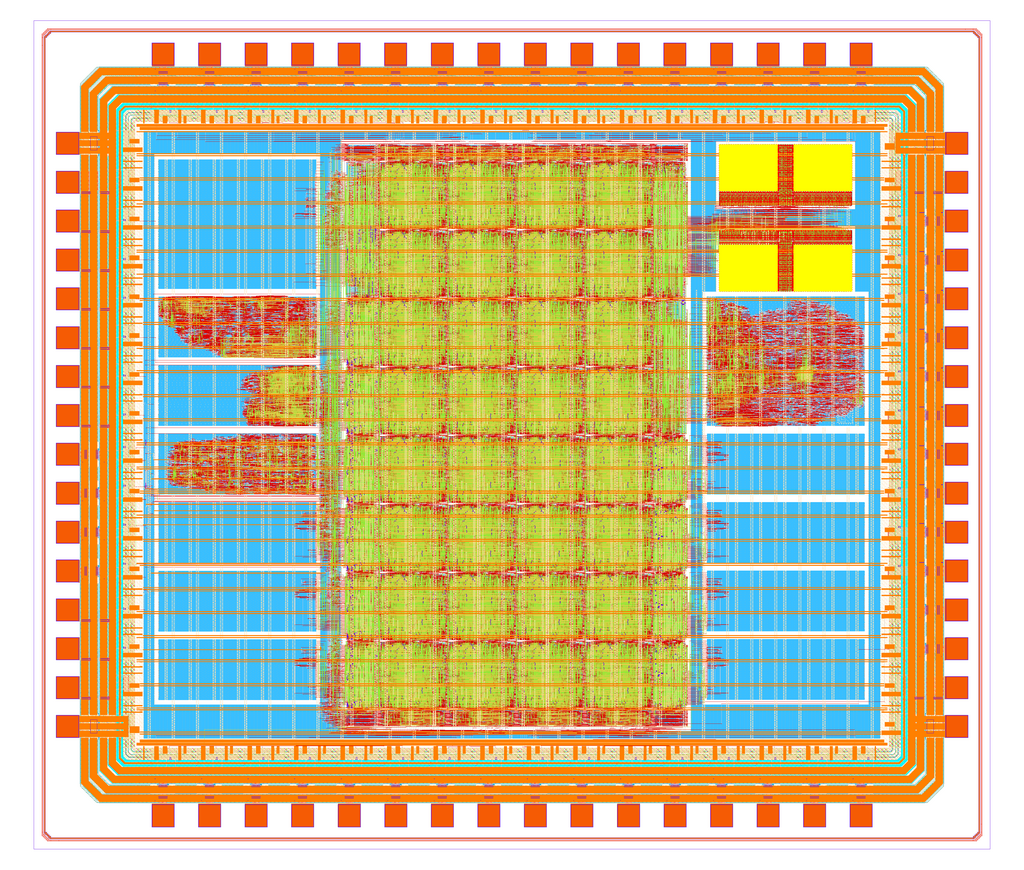
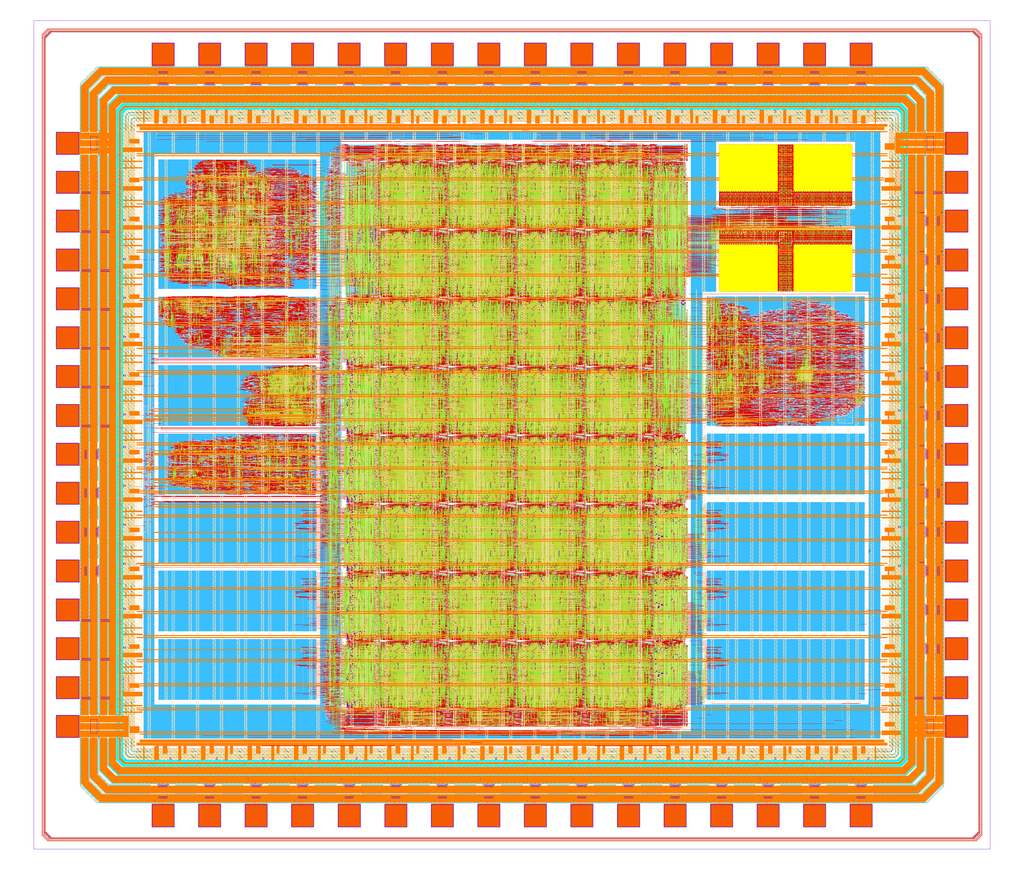
Integrate Snitch

diff --git a/ip/fabric/rtl/io_mappings.py b/ip/fabric/rtl/io_mappings.py
@@ -8,7 +8,7 @@ SRAM_WIDTH = 32
 # coord: (module, instance)
 tt_projects = {
     # left side
-    'X0Y2': ('heichips25_example_large', 'heichips25_example_large_0'),
+    'X0Y2': ('heichips25_snitch_wrapper', 'heichips25_example_large_0'),
     'X0Y3': ('heichips25_CORDIC', 'heichips25_example_small_0'),
     'X0Y4': ('heichips25_sap3', 'heichips25_example_small_1'),
     'X0Y5': ('heichips25_top_sorter', 'heichips25_example_small_2'),